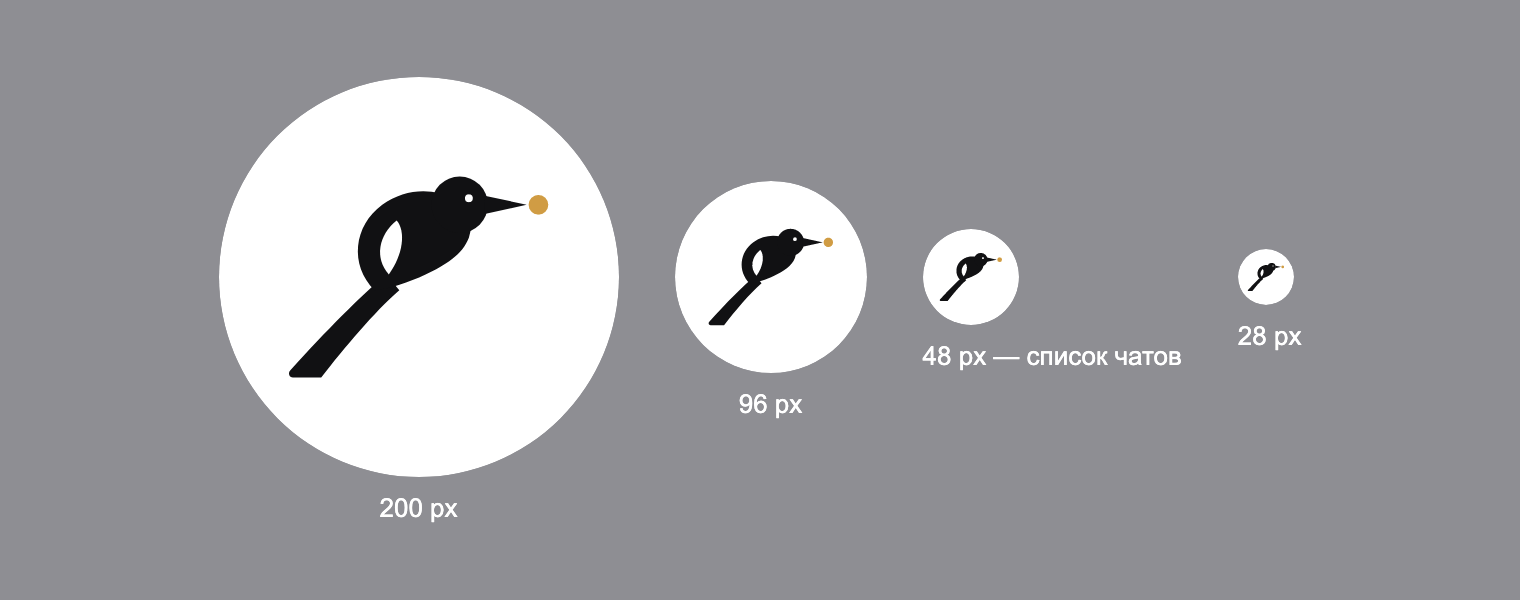
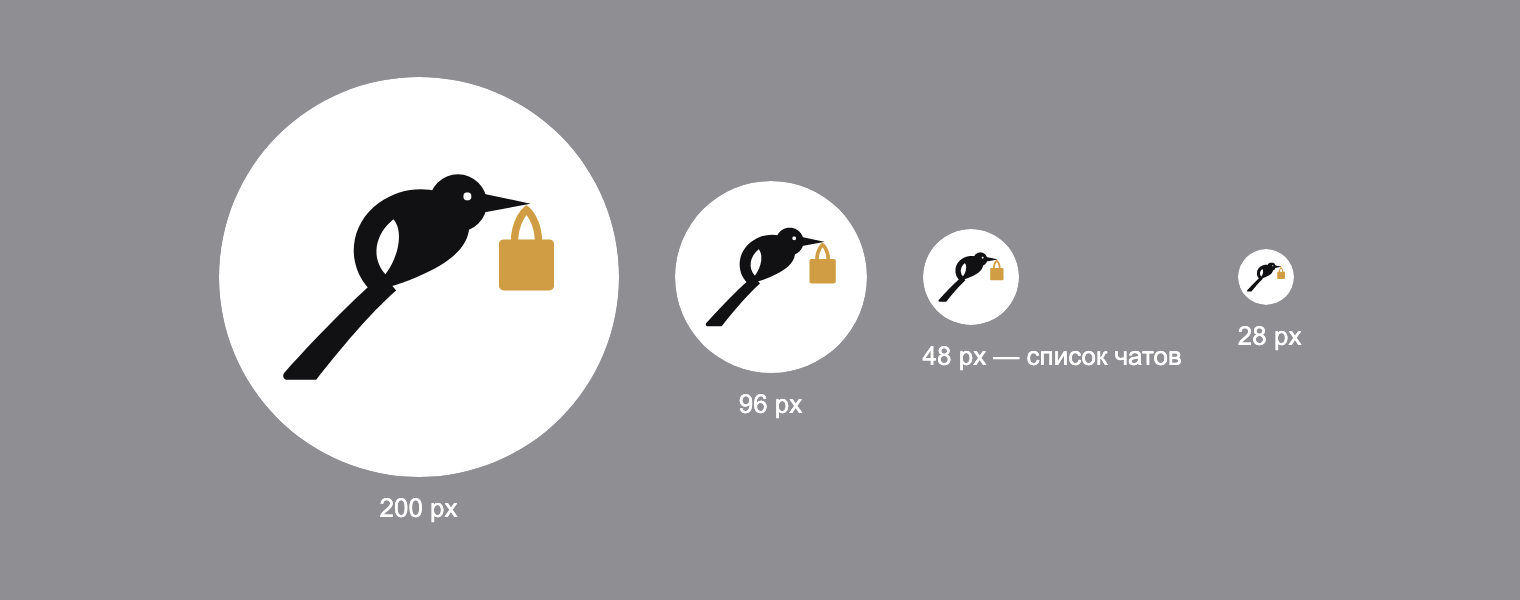
В знаке вместо находки — пакет из магазина
Теперь знак объясняет, чем бот занимается, а не просто изображает сороку.
Ручка пакета в клюве, сам пакет — единственное цветное пятно.
Проверено на 200, 96, 48 и 28 пикселях: пакет читается даже в списке чатов.

diff --git a/brand/README.md b/brand/README.md
@@ -5,8 +5,9 @@
 Оригинальная работа: геометрия нарисована с нуля в SVG, чужих изображений,
 клипарта и шрифтов внутри нет. Исключительные права принадлежат владельцу бота.
 
-Птица в профиль, длинный ступенчатый хвост — главная примета сороки, в клюве
-находка. Цвета те же, что в анкете: белый `#FFFFFF`, почти чёрный `#111113`,
+Птица в профиль, длинный ступенчатый хвост — главная примета сороки. В клюве
+пакет из магазина: он же и единственное цветное пятно, и объяснение, чем бот
+занимается. Цвета те же, что в анкете: белый `#FFFFFF`, почти чёрный `#111113`,
 тёплый акцент `#D99A2B`.
 
 Птица вписана в круг с запасом: Telegram обрезает аватарку по окружности,
